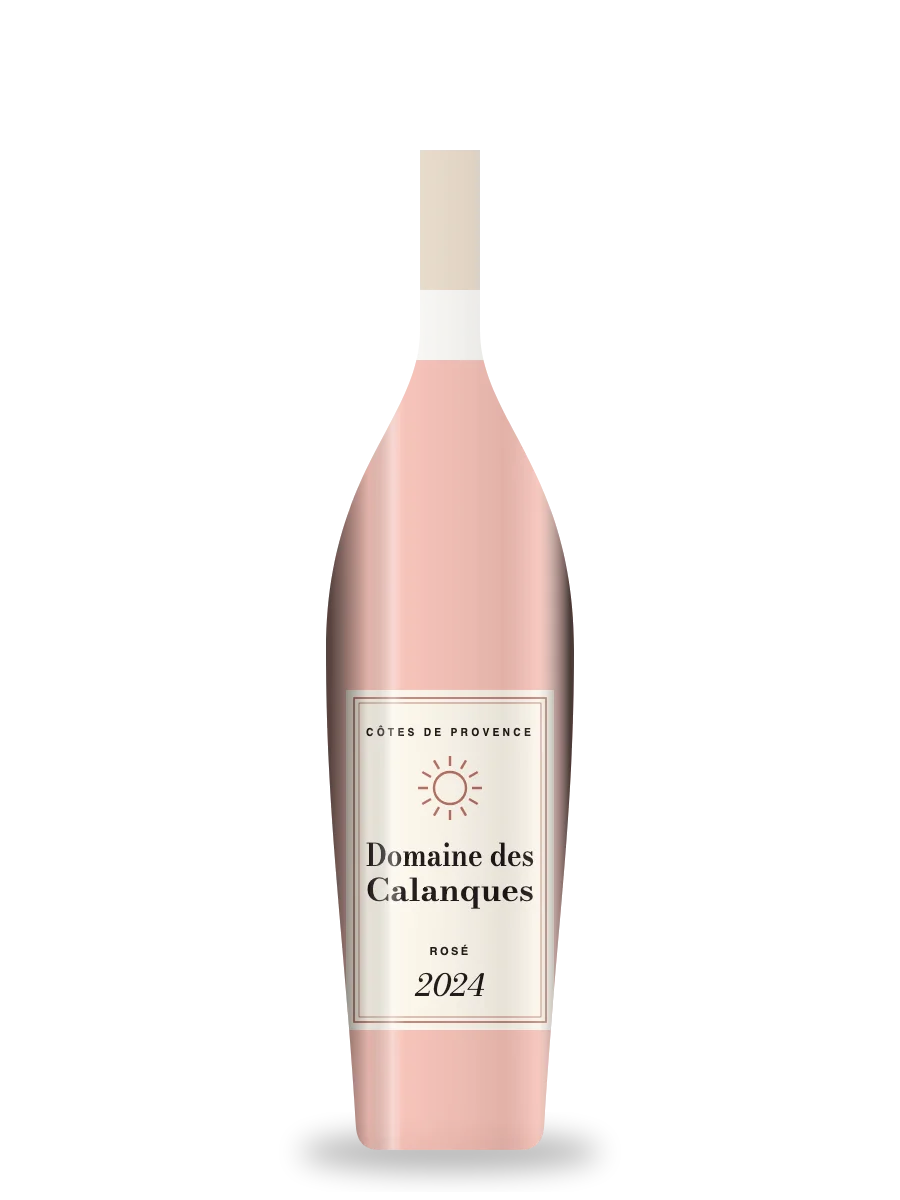
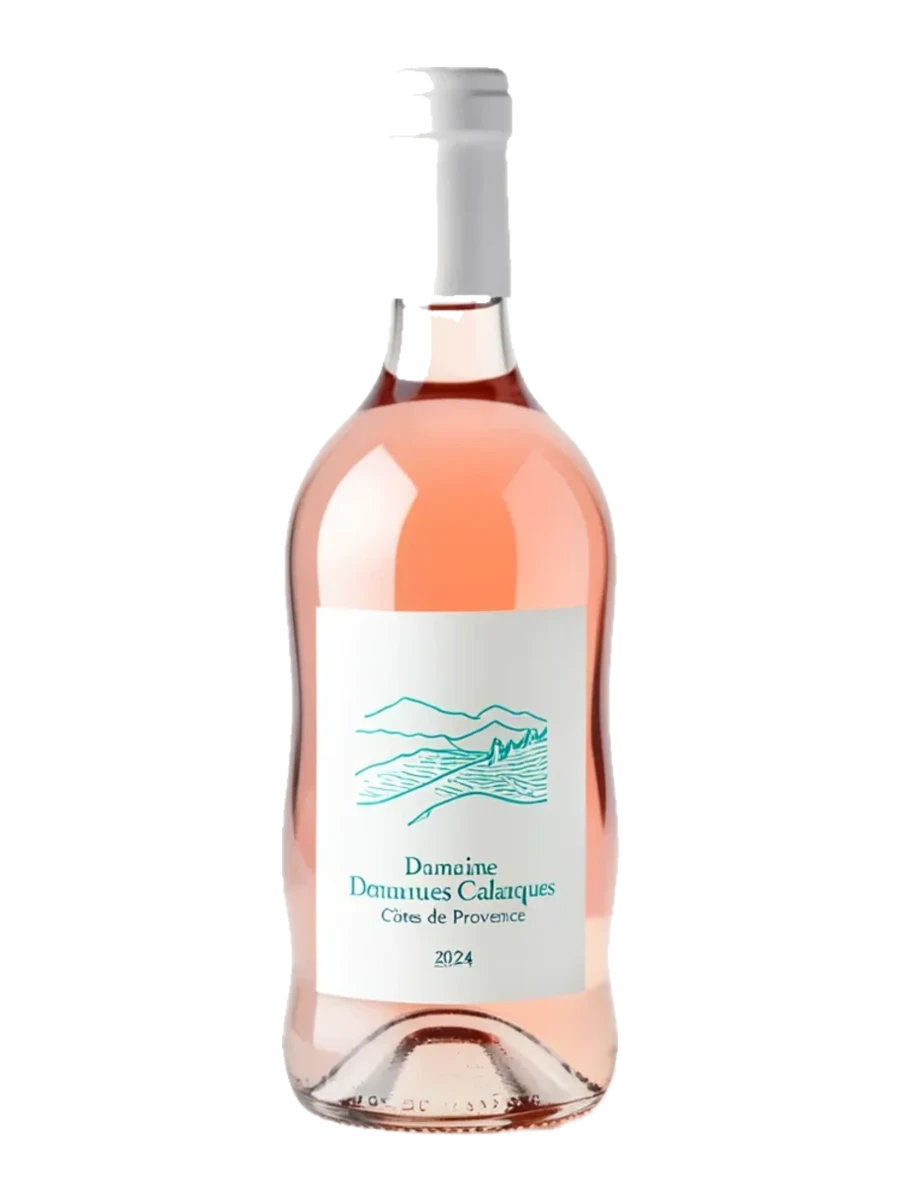
feat(datasets): Generate the cellar bottles with Ollama
The seventeen bottles of the cellar dataset are now photos generated by
sylius:import:dataset:images with Ollama (x/flux2-klein), one prompt per
wine describing its bottle shape, glass, capsule and label. Each bottle
is cut out of its white background and floor shadow (macOS Vision
subject lifting), so it still stands whole in the parchment niches of
the cellar theme, at 900x1200 like before.

Changed region(s): [[0.3111, 0.0308, 0.6844, 0.9867]]

diff --git a/docs/themes/cellar.md b/docs/themes/cellar.md
@@ -87,7 +87,7 @@ application, so the whole bottle reaches the page.
 The screenshots above show a demo catalog of seventeen wines from fictional estates, in seven regions (Bordeaux,
 Burgundy, Champagne, Rhône Valley, Loire Valley, Alsace, Provence), shipped as the `cellar` dataset of
 `sylius-starter/datasets` (`src/Datasets/datasets/cellar/`: `products.yaml`, `collections.yaml`, and in `media/` a
-drawing of each bottle: its shape, glass, capsule and label, on a transparent background so it stands whole in the
+photo of each bottle: its shape, glass, capsule and label, on a transparent background so it stands whole in the
 parchment niches). Descriptions carry the tasting notes, grapes, ageing and serving advice. Create a shop from it with
 the [import package](../import/datasets.md), into the default channel:
 
